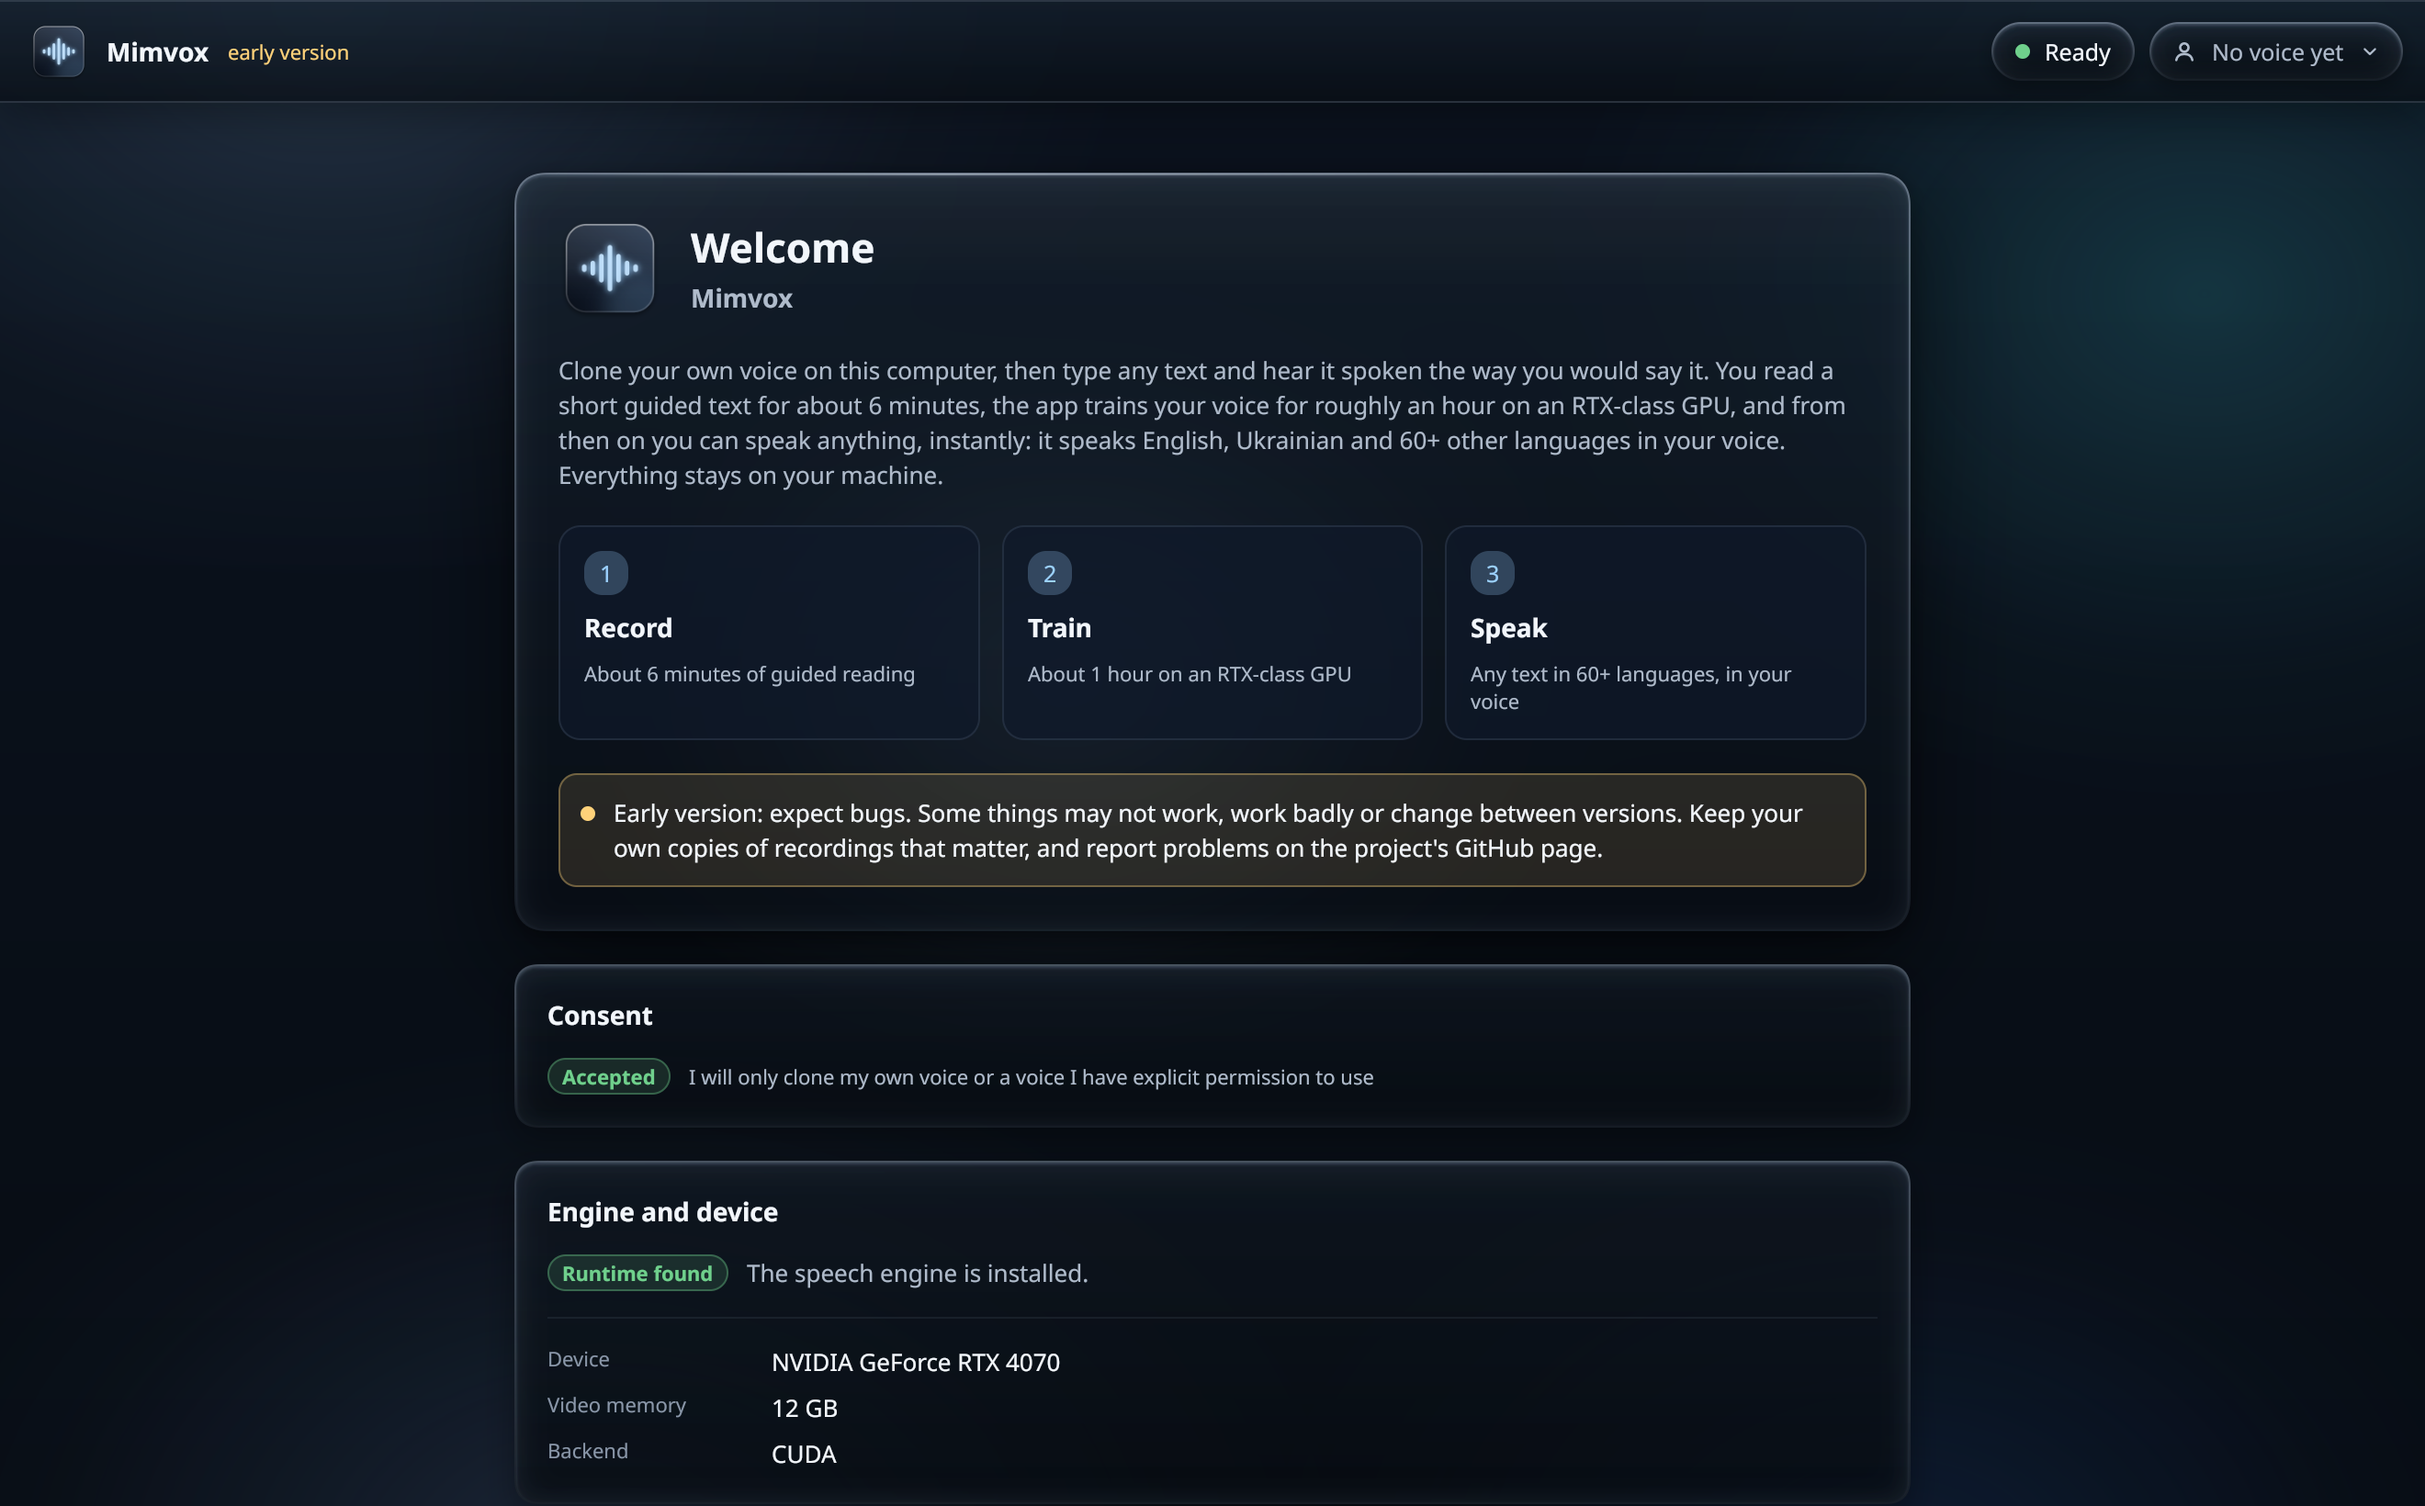
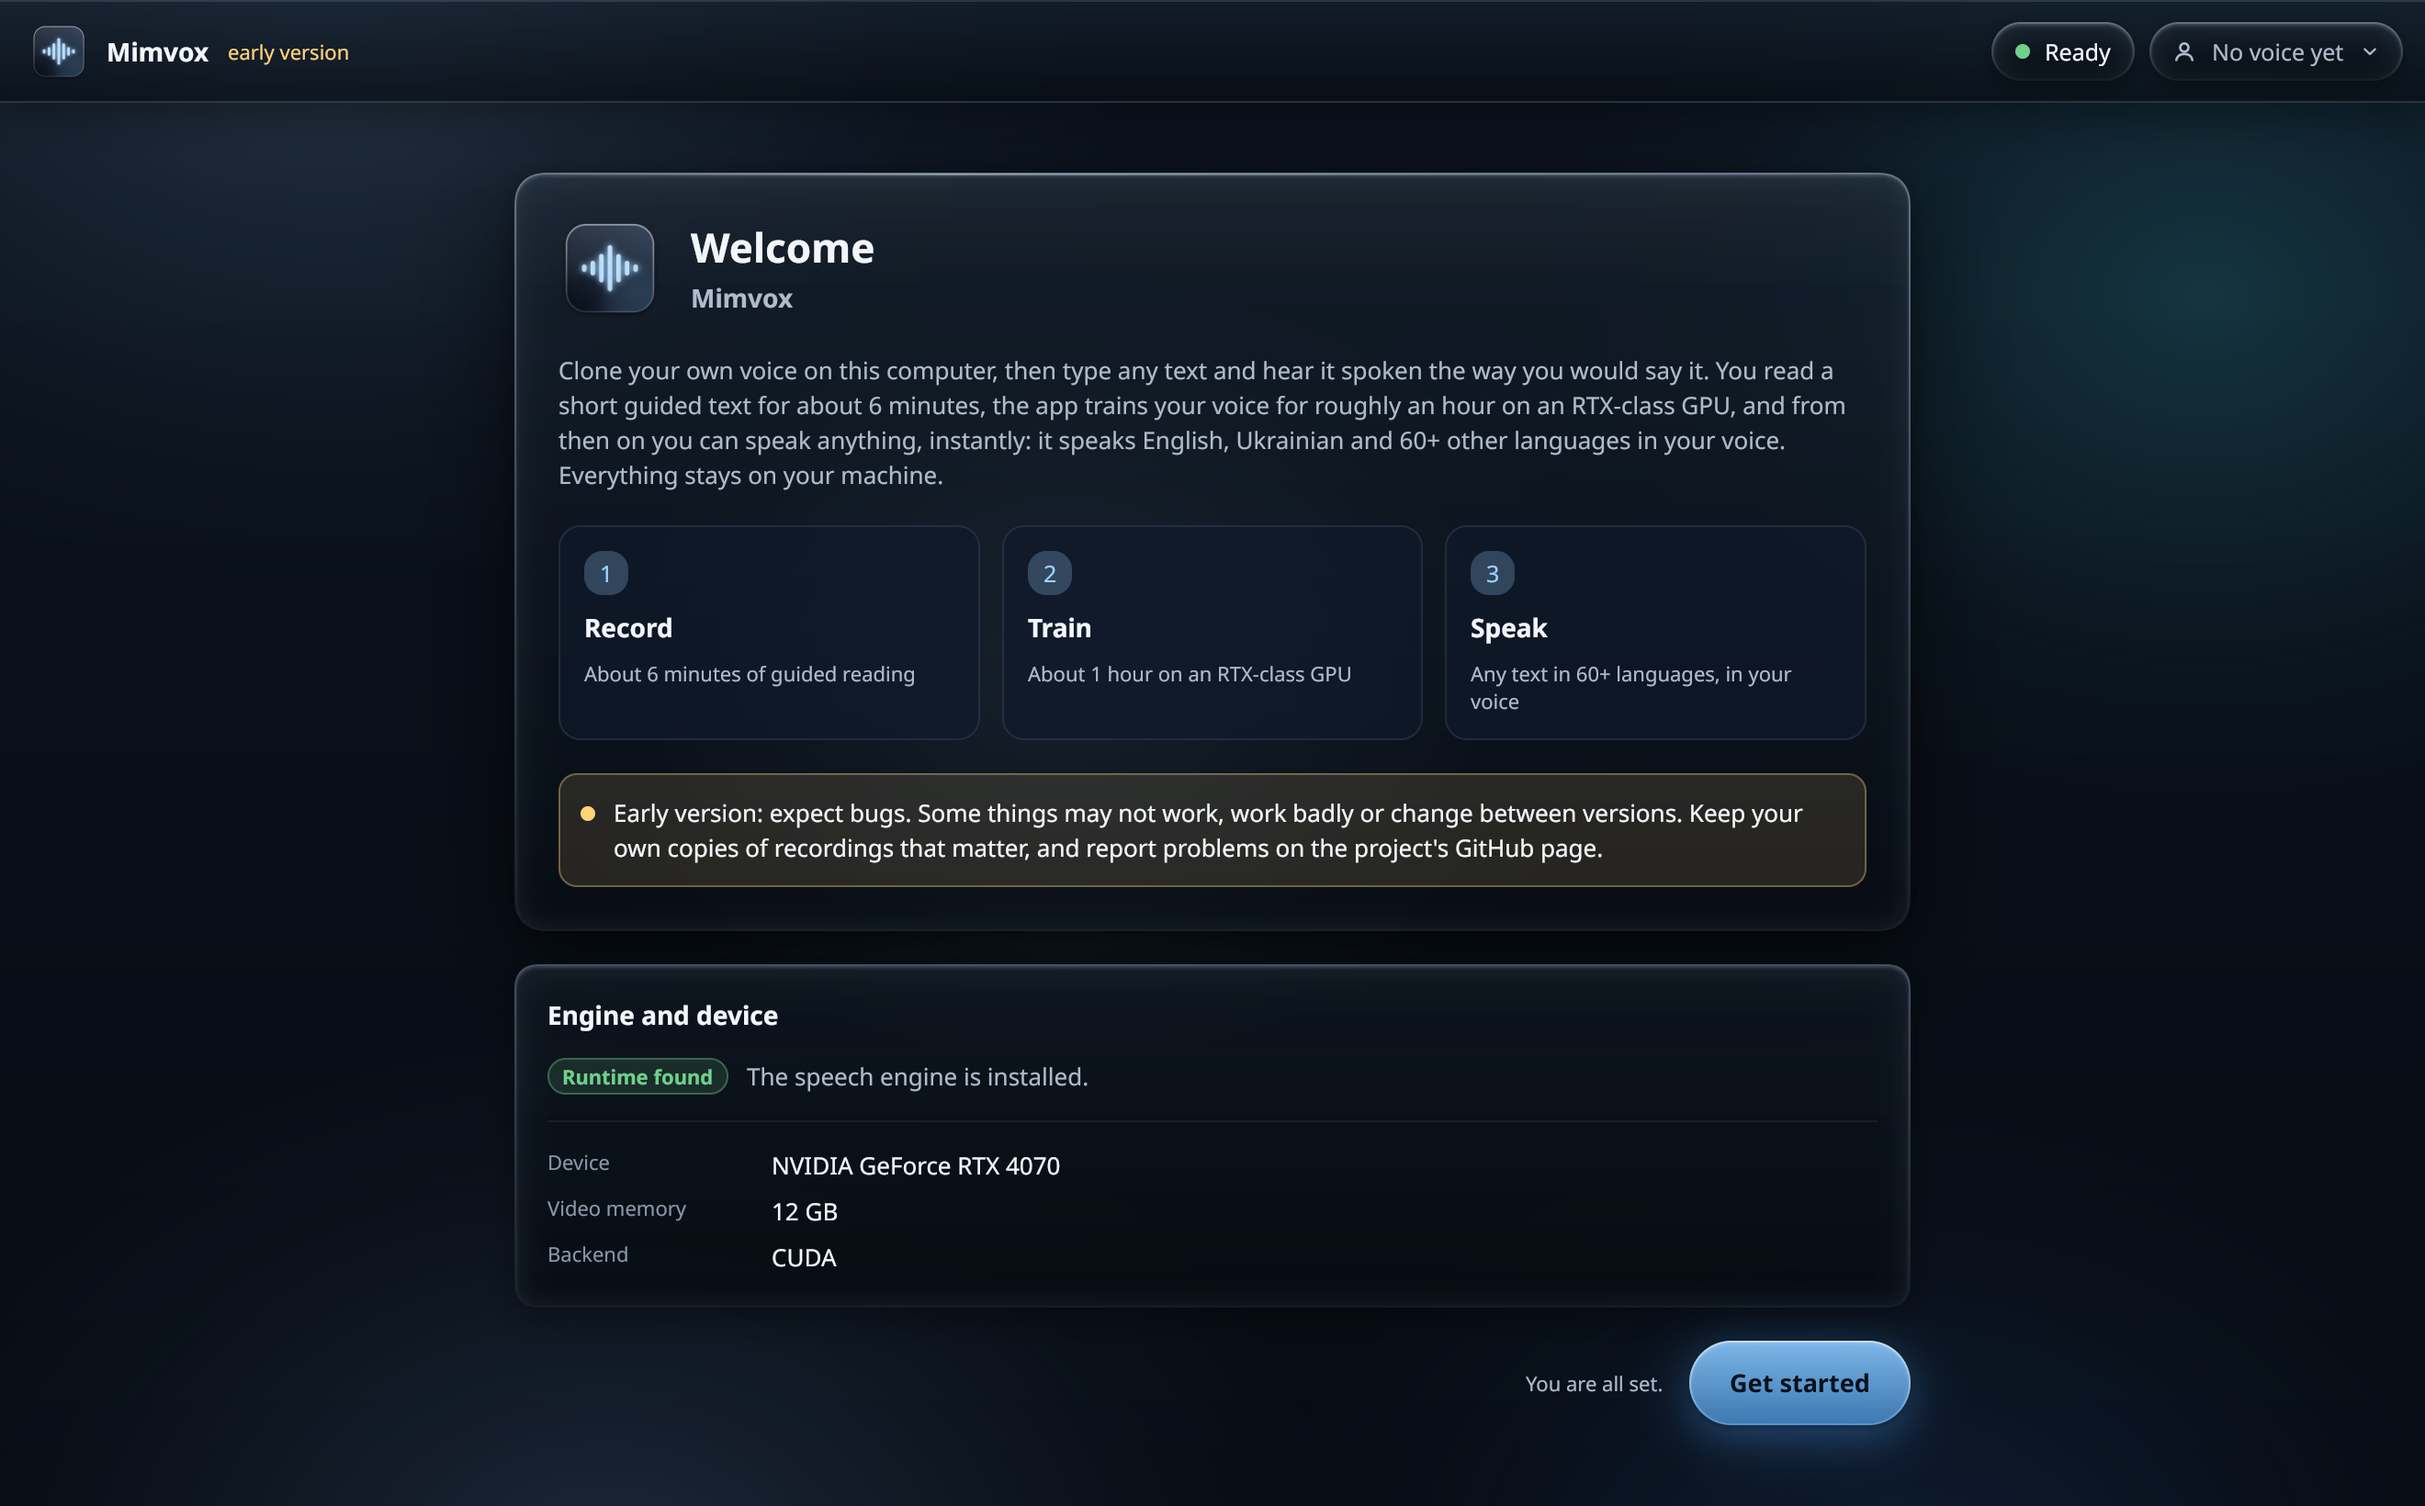
Remove the consent step from the welcome screen

diff --git a/app/src/ui/onboarding.rs b/app/src/ui/onboarding.rs
@@ -1,4 +1,4 @@
-//! Onboarding (first run): welcome, how it works, consent, engine/runtime status and setup.
+//! Onboarding (first run): welcome, how it works, engine/runtime status and setup.
 
 use std::path::PathBuf;
 use std::process::Command;
@@ -67,20 +67,6 @@ pub fn setting(key: &str) -> Option<Value> {
 /// Sets one value of the settings file, keeping the others.
 pub fn save_setting(key: &str, value: Value) {
     update_settings(|v| v[key] = value);
-}
-
-/// Whether the consent step was accepted on this machine.
-pub fn consent_saved() -> bool {
-    read_settings().get("consent_accepted").and_then(Value::as_bool).unwrap_or(false)
-}
-
-fn save_consent() {
-    let now = std::time::SystemTime::now().duration_since(std::time::UNIX_EPOCH).map(|d| d.as_secs()).unwrap_or(0);
-    update_settings(|v| {
-        v["consent_accepted"] = json!(true);
-        v["consent_accepted_at_unix"] = json!(now);
-        v["consent_version"] = json!(1);
-    });
 }
 
 /// The voice selected last time, if any.
@@ -164,8 +150,6 @@ impl DeviceInfo {
 }
 
 pub struct OnboardingState {
-    pub consent_checked: bool,
-    pub accepted: bool,
     pub runtime_present: bool,
     pub device: Option<DeviceInfo>,
     /// Result of the last "Run setup" press (a hint or an error).
@@ -219,10 +203,7 @@ pub(crate) fn free_bytes(path: &str) -> Option<u64> {
 
 impl Default for OnboardingState {
     fn default() -> Self {
-        let accepted = consent_saved();
         OnboardingState {
-            consent_checked: accepted,
-            accepted,
             runtime_present: runtime_toml_path().is_file(),
             device: None,
             setup_note: None,
@@ -237,9 +218,9 @@ impl Default for OnboardingState {
     }
 }
 
-/// True when the first-run flow still has something to do (consent or runtime setup).
+/// True when the first-run flow still has something to do (runtime setup).
 pub fn needed(s: &AppState) -> bool {
-    !s.onboarding.accepted || !s.onboarding.runtime_present
+    !s.onboarding.runtime_present
 }
 
 /// The compute backend reported by the engine (`cuda`, `mps`, `cpu`), if known.
@@ -441,13 +422,6 @@ fn run_setup(s: &mut AppState) {
     });
 }
 
-fn accept(s: &mut AppState) {
-    if s.onboarding.consent_checked {
-        s.onboarding.accepted = true;
-        save_consent();
-    }
-}
-
 fn finish(s: &mut AppState) {
     s.screen = Screen::Voices;
 }
@@ -455,8 +429,6 @@ fn finish(s: &mut AppState) {
 // ---------------------------------------------------------------------------------------------
 // View
 // ---------------------------------------------------------------------------------------------
-
-const CONSENT_TEXT: &str = "I will only clone my own voice or a voice I have explicit permission to use";
 
 pub fn view(s: &AppState, cx: &mut Cx<AppState>) -> El {
     let p = theme::palette(s, cx);
@@ -494,13 +466,10 @@ pub fn view(s: &AppState, cx: &mut Cx<AppState>) -> El {
     let mut page = col().w_full().gap(18.0).child(
         kit::panel(&p).gap(18.0).child(hero).child(intro).child(steps).child(kit::notice(&p, Tone::Warning, EARLY_VERSION)),
     );
-    page = page.child(consent_card(&p, o));
     page = page.child(engine_card(&p, s));
 
-    let ready = o.accepted && o.runtime_present;
-    let hint = if !o.accepted {
-        "Accept the consent above to continue."
-    } else if !o.runtime_present {
+    let ready = o.runtime_present;
+    let hint = if !o.runtime_present {
         "Run setup first, then you can continue."
     } else {
         "You are all set."
@@ -533,31 +502,6 @@ fn step(p: &Palette, n: u32, title: &str, sub: &str) -> El {
         )
         .child(text(title.to_string()).font(ty::TITLE).color(p.text))
         .child(text(sub.to_string()).font(ty::CAPTION).color(p.text_dim).wrap())
-}
-
-fn consent_card(p: &Palette, o: &OnboardingState) -> El {
-    let mut card = kit::card(p).gap(14.0).child(text("Consent").font(ty::TITLE).color(p.text));
-    if o.accepted {
-        card = card.child(
-            row()
-                .gap(10.0)
-                .center_y()
-                .child(kit::badge(p, "Accepted", Tone::Success))
-                .child(text(CONSENT_TEXT).font(ty::CAPTION).color(p.text_dim).wrap().grow(1.0).min_w(0.0)),
-        );
-    } else {
-        card = card
-            .child(kit::checkbox(p, o.consent_checked, CONSENT_TEXT, |s: &mut AppState| {
-                s.onboarding.consent_checked = !s.onboarding.consent_checked
-            }))
-            .child(
-                row()
-                    .w_full()
-                    .justify_end()
-                    .child(kit::button(p, "Accept", BtnKind::Primary, o.consent_checked, accept)),
-            );
-    }
-    card
 }
 
 /// The install folder (editable) and the free space on its drive.
@@ -689,8 +633,6 @@ fn base(s: &mut AppState) {
     s.screen = Screen::Onboarding;
     s.shell.set_engine(ShellEngine::Idle);
     s.onboarding = OnboardingState {
-        consent_checked: false,
-        accepted: false,
         runtime_present: false,
         device: None,
         setup_note: None,
@@ -710,21 +652,13 @@ fn device(backend: &str, name: &str, vram: f32) -> Option<DeviceInfo> {
 fn scene_welcome(s: &mut AppState) {
     base(s);
 }
-fn scene_consent_checked(s: &mut AppState) {
-    base(s);
-    s.onboarding.consent_checked = true;
-}
 fn scene_setup_missing(s: &mut AppState) {
     base(s);
-    s.onboarding.accepted = true;
-    s.onboarding.consent_checked = true;
     s.onboarding.setup_note = Some((Tone::Accent, "Setup is running in a terminal window. This can take a while.".into()));
     s.onboarding.setup_started = true;
 }
 fn scene_ready_gpu(s: &mut AppState) {
     base(s);
-    s.onboarding.accepted = true;
-    s.onboarding.consent_checked = true;
     s.onboarding.runtime_present = true;
     s.shell.set_engine(ShellEngine::Ready { device: None, tts: Some("ready".into()), rvc: Some("ready".into()) });
     s.onboarding.device = device("cuda", "NVIDIA GeForce RTX 4070", 12.0);
@@ -743,7 +677,6 @@ fn scene_engine_stopped(s: &mut AppState) {
 pub fn scenes() -> &'static [(&'static str, fn(&mut AppState))] {
     &[
         ("onboarding-welcome", scene_welcome),
-        ("onboarding-consent", scene_consent_checked),
         ("onboarding-setup", scene_setup_missing),
         ("onboarding-ready", scene_ready_gpu),
         ("onboarding-cpu", scene_cpu_warning),

diff --git a/docs/usage.md b/docs/usage.md
@@ -99,21 +99,18 @@ cargo run --release
 If you installed the app from an installer (see `scripts/build/README.md`), start it like any other program. An
 installed app does not include the models: if they are missing, the first screen offers **Run setup** (see below).
 
-### First launch: the welcome screen and consent
+### First launch: the welcome screen
 
-The first start shows a welcome screen with three steps (Record, Train, Speak) and two cards:
+The first start shows a welcome screen with three steps (Record, Train, Speak) and the engine card:
 
-![The welcome screen with consent and the engine status](screenshots/usage-onboarding.png)
+![The welcome screen and the engine status](screenshots/usage-onboarding.png)
 
-1. **Consent.** Tick *"I will only clone my own voice or a voice I have explicit permission to use"* and press
-   **Accept**. Nothing is recorded before you accept. The acceptance is saved in your data folder, so you see this
-   only once.
-2. **Engine and device.** *Runtime found* means setup has run. If it says *Runtime missing*, the card shows the size
+1. **Engine and device.** *Runtime found* means setup has run. If it says *Runtime missing*, the card shows the size
    warning and an **Install location** field with **Change location…**. Press **Run setup**: a terminal window opens
    and runs the same setup script with that folder. When it is done, the screen updates by itself (or press
    **Check again**). Once the engine is running, the card shows your device, its video memory and the backend. On a
    computer without a GPU it says that training would take many hours, while a quick (zero-shot) voice still works.
-3. Press **Get started**. You land on the Voices screen.
+2. Press **Get started**. You land on the Voices screen.
 
 The first start of the engine takes a while: the models load in the background (about 20-30 seconds on a GPU). The
 status pill at the top right says *Starting engine…*, then *Loading models…*, then **Ready**.
@@ -597,7 +594,7 @@ Everything the app makes lives in one folder (the one you chose during setup; se
   outputs/                       every generated phrase and redub, as WAV and MP3
   logs/engine.log                the engine log
   tmp/                           scratch files, emptied at every engine start
-  settings.json                  your app settings (consent, microphone, last choices)
+  settings.json                  your app settings (microphone, last choices)
   runtime/, runtime.toml         the installed engine and models (about 28 GB)
 ```
 

diff --git a/DISCLAIMER.md b/DISCLAIMER.md
@@ -15,9 +15,8 @@ document before you record anything.
 - Never use audio you did not record for this purpose: not a call, a video, a podcast, a stream, a voice message or any
   other source of someone else's voice, whether or not it is public.
 - Do not clone the voice of a child, or of a person who cannot give informed consent.
-- Before the first recording the app shows this consent text and asks you to confirm that the voice you are about to
-  record is your own, or that you have the speaker's explicit permission. Nothing is recorded before that. The
-  acceptance is stored in your user data on your computer; when the consent text changes materially, the app asks again.
+- By using the app you confirm that every voice you record, import or clone is your own, or that you have the
+  speaker's explicit permission.
 
 ## 2. Prohibited use
 

diff --git a/README.md b/README.md
@@ -121,7 +121,7 @@ cd app
 cargo run --release
 ```
 
-On first start the app shows the consent text and asks you to accept it before it records anything. Then choose a
+On first start the welcome screen checks that setup has run. Then choose a
 preset (or paste your own text), record, press **Train**, and start typing.
 
 ## Usage
